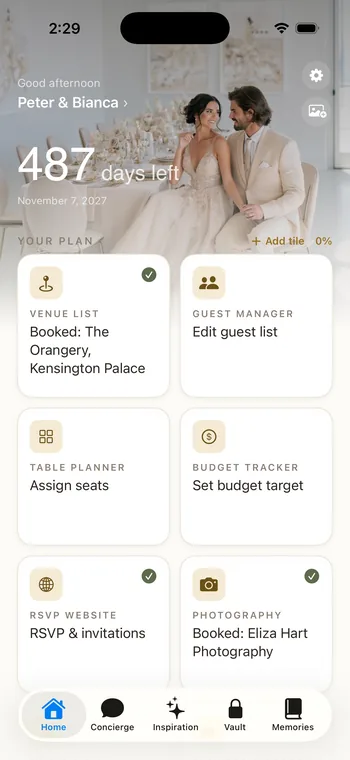
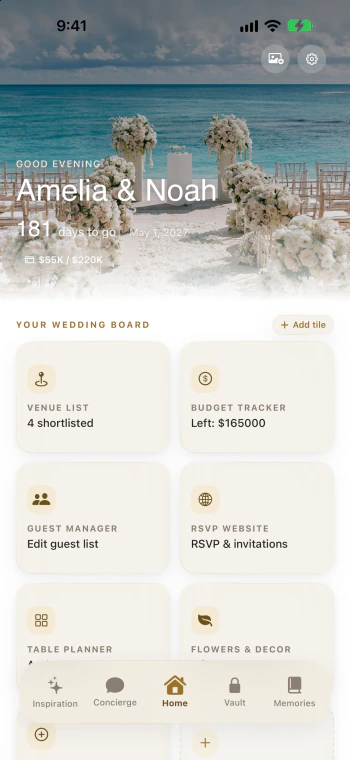
site: Nuptia 1.1.2 board image, iPhone Duo platform line and note

diff --git a/abouttheapps/index.html b/abouttheapps/index.html
@@ -208,9 +208,10 @@
 
     <article class="wrap case hold" id="wedding-concierge" aria-labelledby="wc-title">
       <div class="case-text">
-        <p class="label">iPhone · iPad · Mac</p>
+        <p class="label">iPhone · iPhone Duo · iPad · Mac</p>
         <h3 class="case-title" id="wc-title">Wedding Concierge</h3>
         <p>Guests, seating, budget, vendors and RSVPs on one board, with an AI concierge.</p>
+        <p>On iPhone Duo, Nuptia opens to the Concierge when folded. Unfolded, the wedding board and albums sit either side of the fold, with nothing printed across it.</p>
         <dl class="facts">
           <div><dt>Data</dt><dd>Syncs with your iCloud. No tracking.</dd></div>
           <div><dt>Answers</dt><dd>From real map and place listings</dd></div>
@@ -221,7 +222,7 @@
       <div class="case-media">
         <div class="stage s-wedding">
           <img class="tablet a1" src="../assets/screens/nuptia-concierge.webp" alt="Wedding Concierge on iPad: the concierge adds a guest, then suggests bus rental operators in Taguig with capacities and a starting price" width="1400" height="1049" loading="lazy">
-          <img class="phone a2" src="../assets/screens/nuptia-board.webp" alt="Wedding Concierge on iPhone: the planning board with 487 days left, the venue and photographer booked, and the guest list, seating and budget still open" width="350" height="760" loading="lazy">
+          <img class="phone a2" src="../assets/screens/nuptia-board.webp" alt="Wedding Concierge on iPhone: the planning board for Amelia and Noah, 181 days to go, with tiles for venues (4 shortlisted), budget tracker, guest manager, RSVP website, table planner, and flowers and decor" width="350" height="760" loading="lazy">
         </div>
       </div>
       <div class="case-more">

diff --git a/index.html b/index.html
@@ -111,7 +111,7 @@
         <h2 class="case-title">Wedding Concierge</h2>
         <p>Guests, seating, budget and vendors on one board, with an AI concierge.</p>
         <ul class="apps-list">
-          <li><img src="assets/icons/wedding-concierge.png" alt="" width="32" height="32"><span><b>Wedding Concierge</b><span>iPhone · iPad · Mac</span></span><a class="link" href="https://apps.apple.com/app/nuptia-ai-wedding-planner/id6786553019">App Store</a></li>
+          <li><img src="assets/icons/wedding-concierge.png" alt="" width="32" height="32"><span><b>Wedding Concierge</b><span>iPhone · iPhone Duo · iPad · Mac</span></span><a class="link" href="https://apps.apple.com/app/nuptia-ai-wedding-planner/id6786553019">App Store</a></li>
         </ul>
         <div class="links"><a class="link in" href="abouttheapps/#wedding">Read more here</a><a class="link" href="https://nuptia.wedding">nuptia.wedding</a></div>
       </div>
